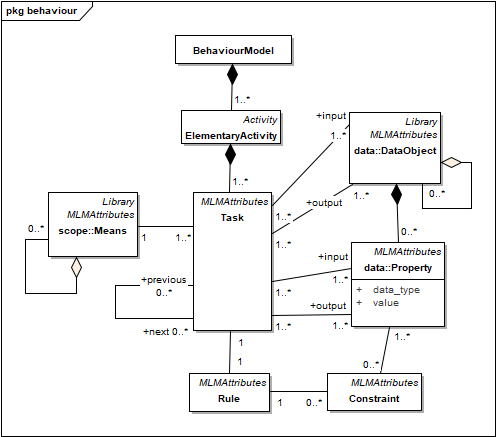
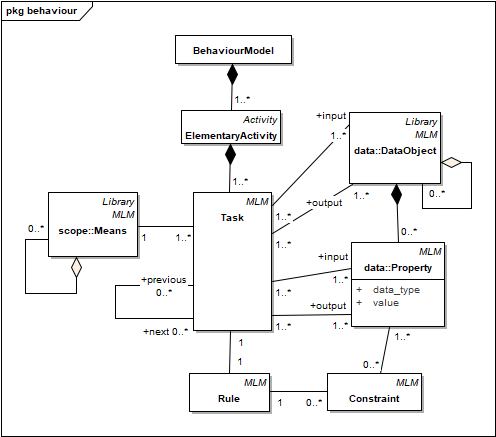
Change name to MLM and Semantic

diff --git a/README.md b/README.md
@@ -56,7 +56,7 @@ All MfM Metamodel classes are arranged into 6 packages:
 
 - The Semantic Model has been modelled just as common attributes for `DataObject` and `Property` classes in `scope` package.
 - The idea behind this solution is based on having a detailed description of ontology concepts related to the Data model for the future construction of interfaces without doubts about semantics.
-- Attributes are defined in the `SemanticAttributes` class which are aggregated by `DataObject` and `Property` classes.
+- Attributes are defined in the `Semantic` class which are aggregated by `DataObject` and `Property` classes.
 
 This is an example of Semantic Model and its relation with the Data Model:
 
@@ -71,7 +71,7 @@ This is an example of Semantic Model and its relation with the Data Model:
     + An 'Activity' along with the full structure of its child activities, all the associated `Means`, the related data structure and the definition of its behaviour.
     + A `Means` collection.
     + A `DataObject` structure.
-    + A `SemanticModel` as a collection of `SemanticAttributes`.
+    + A `SemanticModel` as a collection of `Semantic`.
 
 The following figure shows in more detail the different structures/collections that can be exported/imported as a `Library`:
 
@@ -81,7 +81,7 @@ The following figure shows in more detail the different structures/collections t
 
 ![metamodel_mlm](mlm.png)
 
-- `MLMAttributes` is an abstract class that defines a series of common attributes for managing the lifecycle of a MfM ontology.
+- `MLM` is an abstract class that defines a series of common attributes for managing the lifecycle of a MfM ontology.
 
 
 ## Overview
